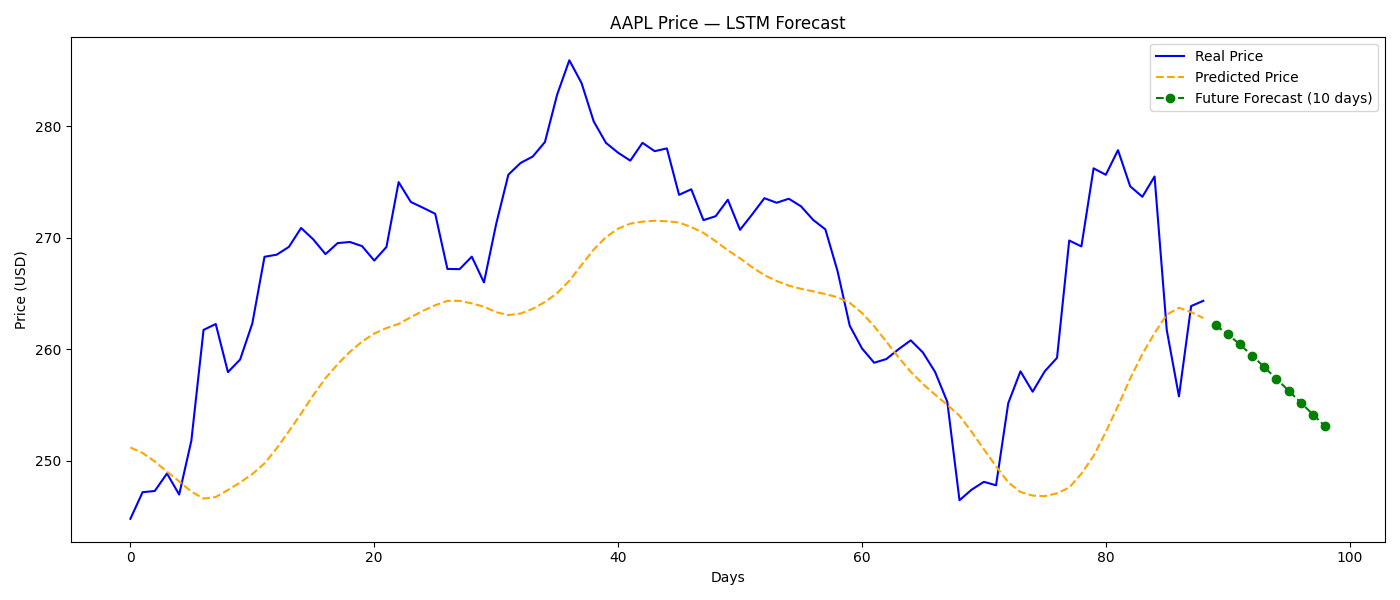
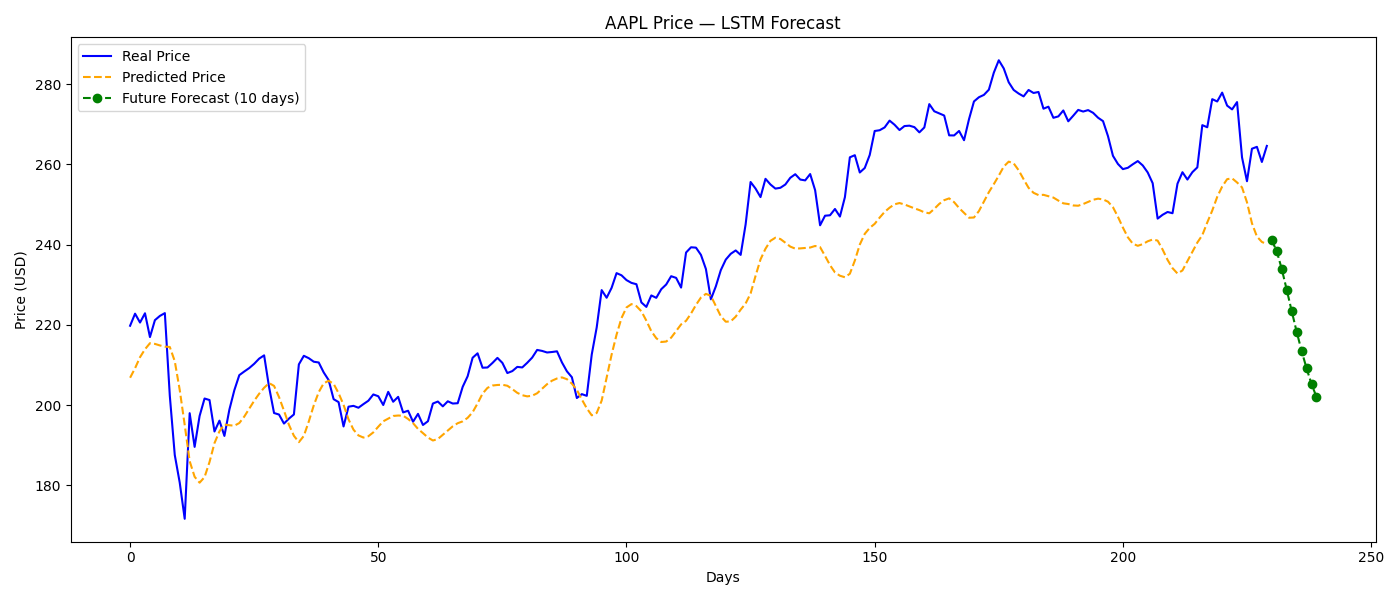
Overwrite repo with new folder contents

diff --git a/src/predict.py b/src/predict.py
@@ -1,3 +1,7 @@
+import os
+os.environ["TF_ENABLE_ONEDNN_OPTS"] = "0"
+os.environ["TF_CPP_MIN_LOG_LEVEL"] = "2"
+
 import numpy as np
 import matplotlib.pyplot as plt
 from data_loader import fetch_daily
@@ -9,47 +13,57 @@ df = fetch_daily("AAPL")
 X_train, X_test, y_train, y_test, scaler = preprocess(df)
 
 # ── 2. Train model ────────────────────────────────────────────────
-model = build_lstm()
-model.fit(X_train, y_train, epochs=20, batch_size=32,
+model = build_lstm(sequence_len=90, n_features=3)
+model.fit(X_train, y_train, epochs=50, batch_size=32,
           validation_data=(X_test, y_test), verbose=1)
 
 # ── 3. Predict on test set ────────────────────────────────────────
 predicted_scaled = model.predict(X_test)
 
-# Scale back to real prices
-predicted_prices = scaler.inverse_transform(predicted_scaled)
-real_prices      = scaler.inverse_transform(y_test)
+# Scaler has 3 features (close, ma7, ma21) so we must pad with zeros
+# before inverse transforming, then grab column 0 (close price only)
+def inverse_close(scaler, values):
+    dummy = np.zeros((len(values), 3))
+    dummy[:, 0] = values.flatten()
+    return scaler.inverse_transform(dummy)[:, 0]
+
+predicted_prices = inverse_close(scaler, predicted_scaled)  # ← correct
+real_prices      = inverse_close(scaler, y_test)            # ← correct
 
 # ── 4. Forecast N days into the future ───────────────────────────
-def forecast_future(model, df, scaler, sequence_len=60, days_ahead=10):
-    data_scaled = scaler.transform(df[["close"]].values)
-    last_sequence = data_scaled[-sequence_len:]  # last 60 days
+def forecast_future(model, df, scaler, sequence_len=90, days_ahead=10):
+    df = df.copy()
+    df["ma7"]  = df["close"].rolling(7).mean()
+    df["ma21"] = df["close"].rolling(21).mean()
+    df.dropna(inplace=True)
+
+    data_scaled = scaler.transform(df[["close", "ma7", "ma21"]].values)
+    last_sequence = data_scaled[-sequence_len:]
 
     predictions = []
     current_seq = last_sequence.copy()
 
     for _ in range(days_ahead):
-        x = current_seq.reshape(1, sequence_len, 1)
-        next_val = model.predict(x, verbose=0)
-        predictions.append(next_val[0, 0])
-        # slide the window forward
-        current_seq = np.append(current_seq[1:], next_val, axis=0)
+        x = current_seq.reshape(1, sequence_len, 3)
+        next_val = model.predict(x, verbose=0)[0, 0]
+        predictions.append(next_val)
 
-    future_prices = scaler.inverse_transform(
-        np.array(predictions).reshape(-1, 1)
-    )
-    return future_prices.flatten()
+        new_row = np.array([[next_val, current_seq[-1, 1], current_seq[-1, 2]]])
+        current_seq = np.append(current_seq[1:], new_row, axis=0)
 
-future = forecast_future(model, df, scaler, days_ahead=10)
+    dummy = np.zeros((len(predictions), 3))
+    dummy[:, 0] = predictions
+    future_prices = scaler.inverse_transform(dummy)[:, 0]
+    return future_prices
+
+future = forecast_future(model, df, scaler, sequence_len=90, days_ahead=10)
 
 # ── 5. Plot everything ────────────────────────────────────────────
 plt.figure(figsize=(14, 6))
 
-# Test set: real vs predicted
 plt.plot(real_prices,      label="Real Price",      color="blue")
 plt.plot(predicted_prices, label="Predicted Price", color="orange", linestyle="--")
 
-# Future forecast appended after the test set
 start = len(real_prices)
 plt.plot(range(start, start + len(future)), future,
          label="Future Forecast (10 days)", color="green", linestyle="--", marker="o")
@@ -59,9 +73,9 @@ plt.xlabel("Days")
 plt.ylabel("Price (USD)")
 plt.legend()
 plt.tight_layout()
-plt.savefig("forecast.png")  # saves the chart
+plt.savefig("forecast.png")
 plt.show()
 
-print("\n # Next 10 days forecast:")
+print("\n📈 Next 10 days forecast:")
 for i, price in enumerate(future, 1):
     print(f"  Day {i}: ${price:.2f}")

diff --git a/src/preprocessor.py b/src/preprocessor.py
@@ -1,28 +1,27 @@
 import numpy as np
 from sklearn.preprocessing import MinMaxScaler
 
-def preprocess(df, feature_col="close", sequence_len=60):
-    """
-    feature_col  : which column to predict (close price)
-    sequence_len : how many past days the LSTM looks at (60 days → predict next N)
-    """
-    # Keep only the closing price
-    data = df[[feature_col]].values  # shape: (num_days, 1)
+def preprocess(df, sequence_len=90):
+    # Add moving average features
+    df = df.copy()
+    df["ma7"]  = df["close"].rolling(7).mean()   # 7-day average
+    df["ma21"] = df["close"].rolling(21).mean()  # 21-day average
+    df.dropna(inplace=True)
 
-    # Scale values to range [0, 1] — LSTMs train better on small numbers
+    features = ["close", "ma7", "ma21"]
+    data = df[features].values  # shape: (days, 3)
+
     scaler = MinMaxScaler()
     data_scaled = scaler.fit_transform(data)
 
-    # Build sequences: X = past 60 days, y = next day
     X, y = [], []
     for i in range(sequence_len, len(data_scaled)):
-        X.append(data_scaled[i - sequence_len:i])  # 60 days of input
-        y.append(data_scaled[i])                   # 1 day to predict
+        X.append(data_scaled[i - sequence_len:i])  # shape: (90, 3)
+        y.append(data_scaled[i, 0])                # predict close only
 
-    X = np.array(X)  # shape: (samples, 60, 1)
-    y = np.array(y)  # shape: (samples, 1)
+    X = np.array(X)
+    y = np.array(y)
 
-    # Split: 80% train, 20% test
     split = int(len(X) * 0.8)
     X_train, X_test = X[:split], X[split:]
     y_train, y_test = y[:split], y[split:]

diff --git a/src/model.py b/src/model.py
@@ -4,15 +4,14 @@ import os
 os.environ['TF_CPP_MIN_LOG_LEVEL'] = '2'  # Silences Info and Warning messages
 os.environ['TF_ENABLE_ONEDNN_OPTS'] = '0' # Stops the oneDNN floating-point message
 
-def build_lstm(sequence_len=60):
+def build_lstm(sequence_len=90, n_features=3):  # ← add n_features
     model = Sequential([
-        LSTM(64, return_sequences=True, input_shape=(sequence_len, 1)),
-        Dropout(0.2),   # randomly turns off 20% of neurons → prevents overfitting
+        LSTM(64, return_sequences=True, input_shape=(sequence_len, n_features)),
+        Dropout(0.2),
         LSTM(32, return_sequences=False),
         Dropout(0.2),
         Dense(16, activation="relu"),
-        Dense(1)        # output: 1 predicted price
+        Dense(1)
     ])
-
     model.compile(optimizer="adam", loss="mean_squared_error")
     return model

diff --git a/src/data_loader.py b/src/data_loader.py
@@ -1,6 +1,6 @@
 import yfinance as yf
 
 def fetch_daily(symbol):
-    df = yf.download(symbol, period="2y", interval="1d", auto_adjust=True)
-    df.columns = df.columns.get_level_values(0).str.lower()  # flatten MultiIndex
+    df = yf.download(symbol, period="5y", interval="1d", auto_adjust=True)  # ← change here
+    df.columns = df.columns.get_level_values(0).str.lower()
     return df
